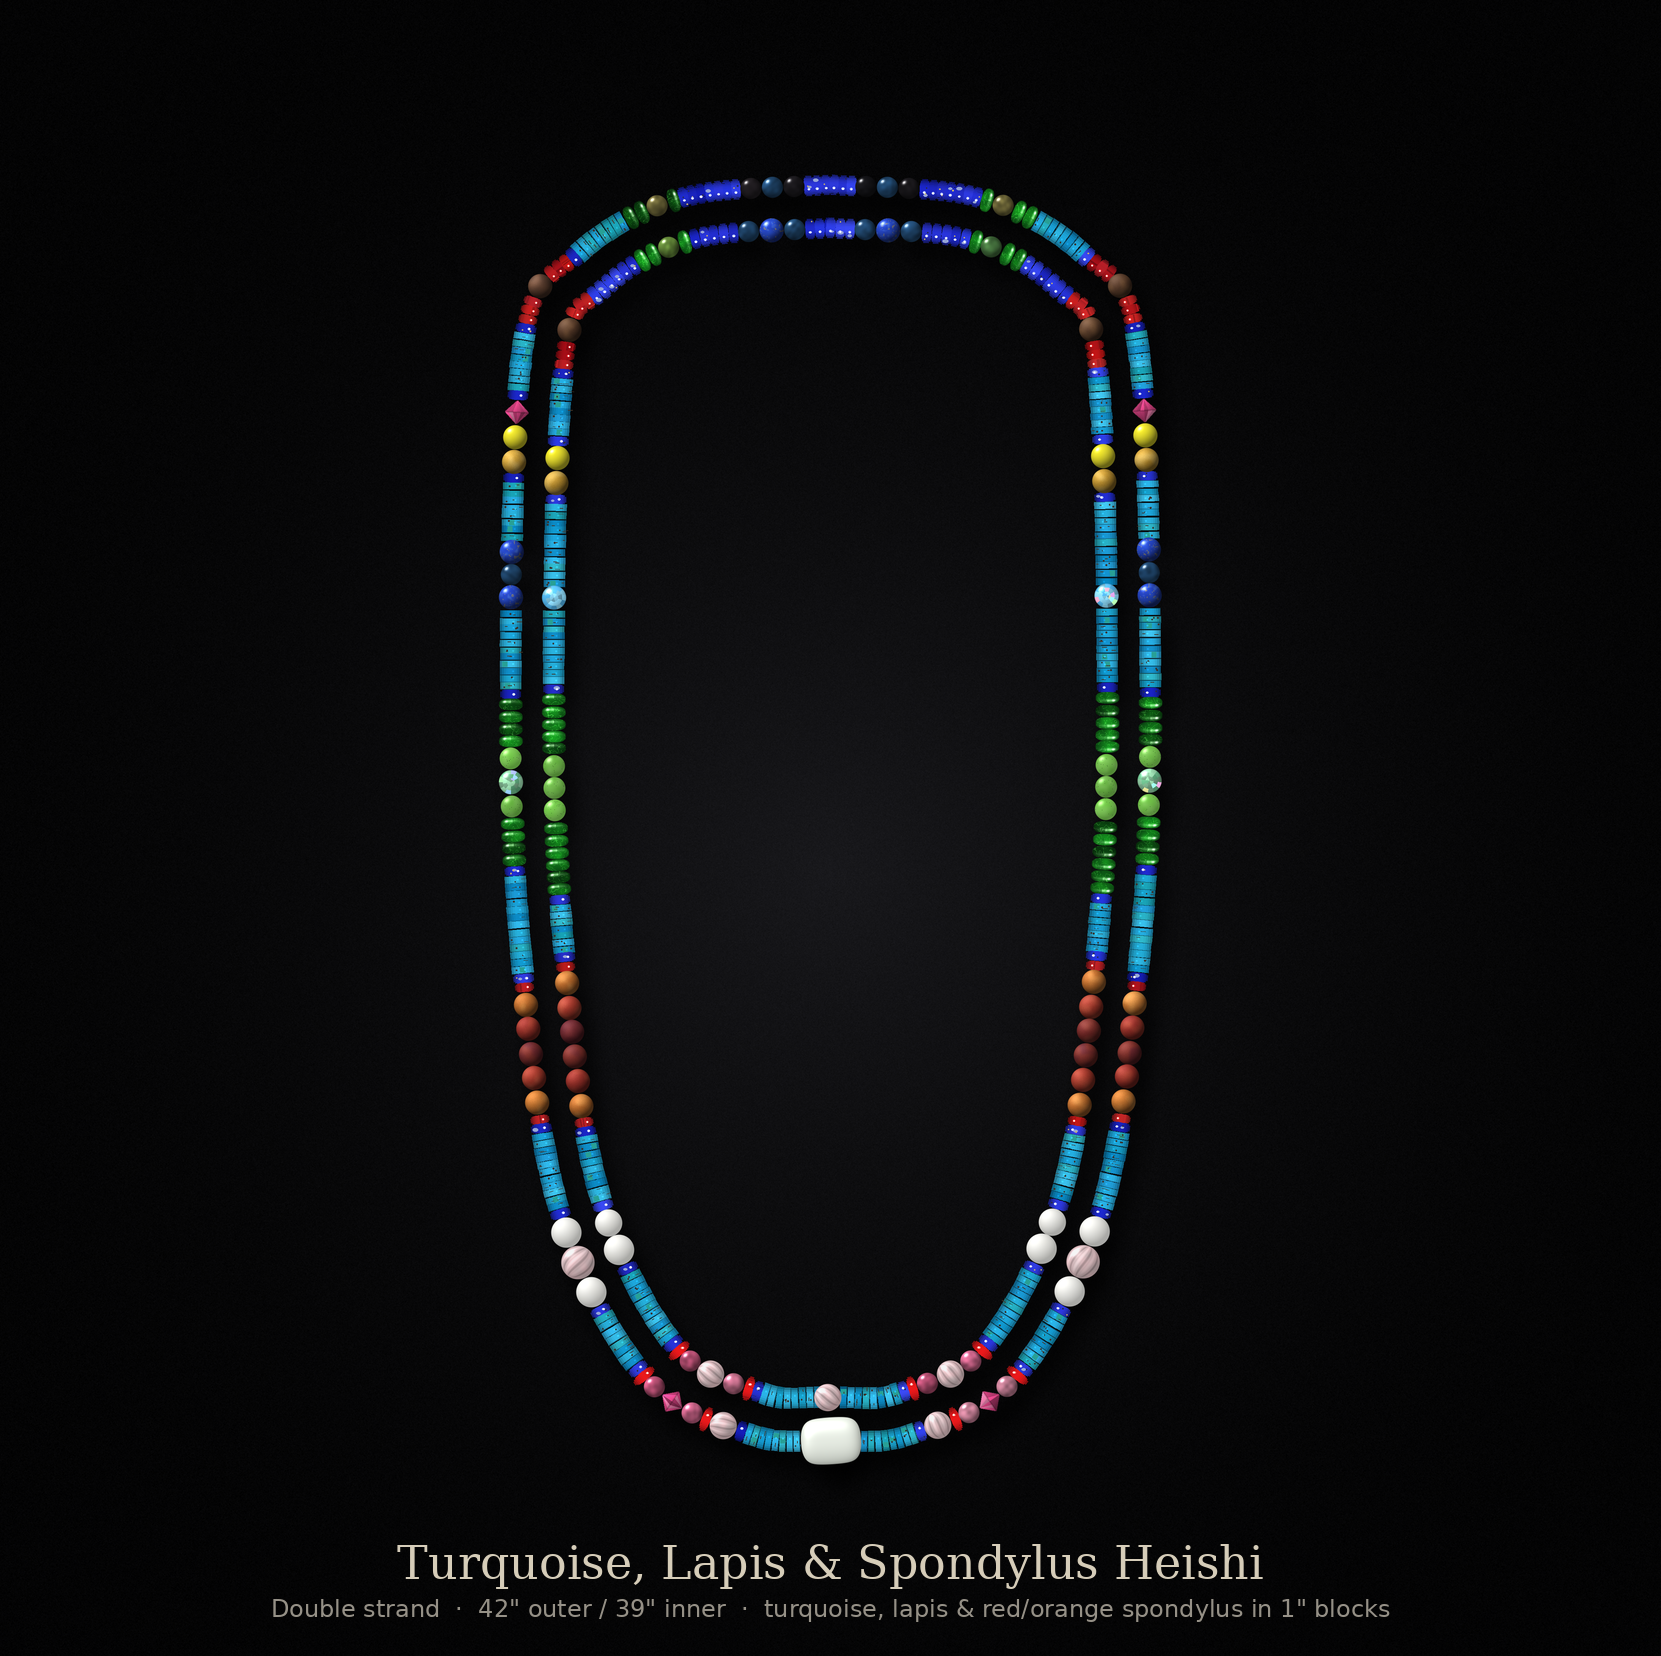
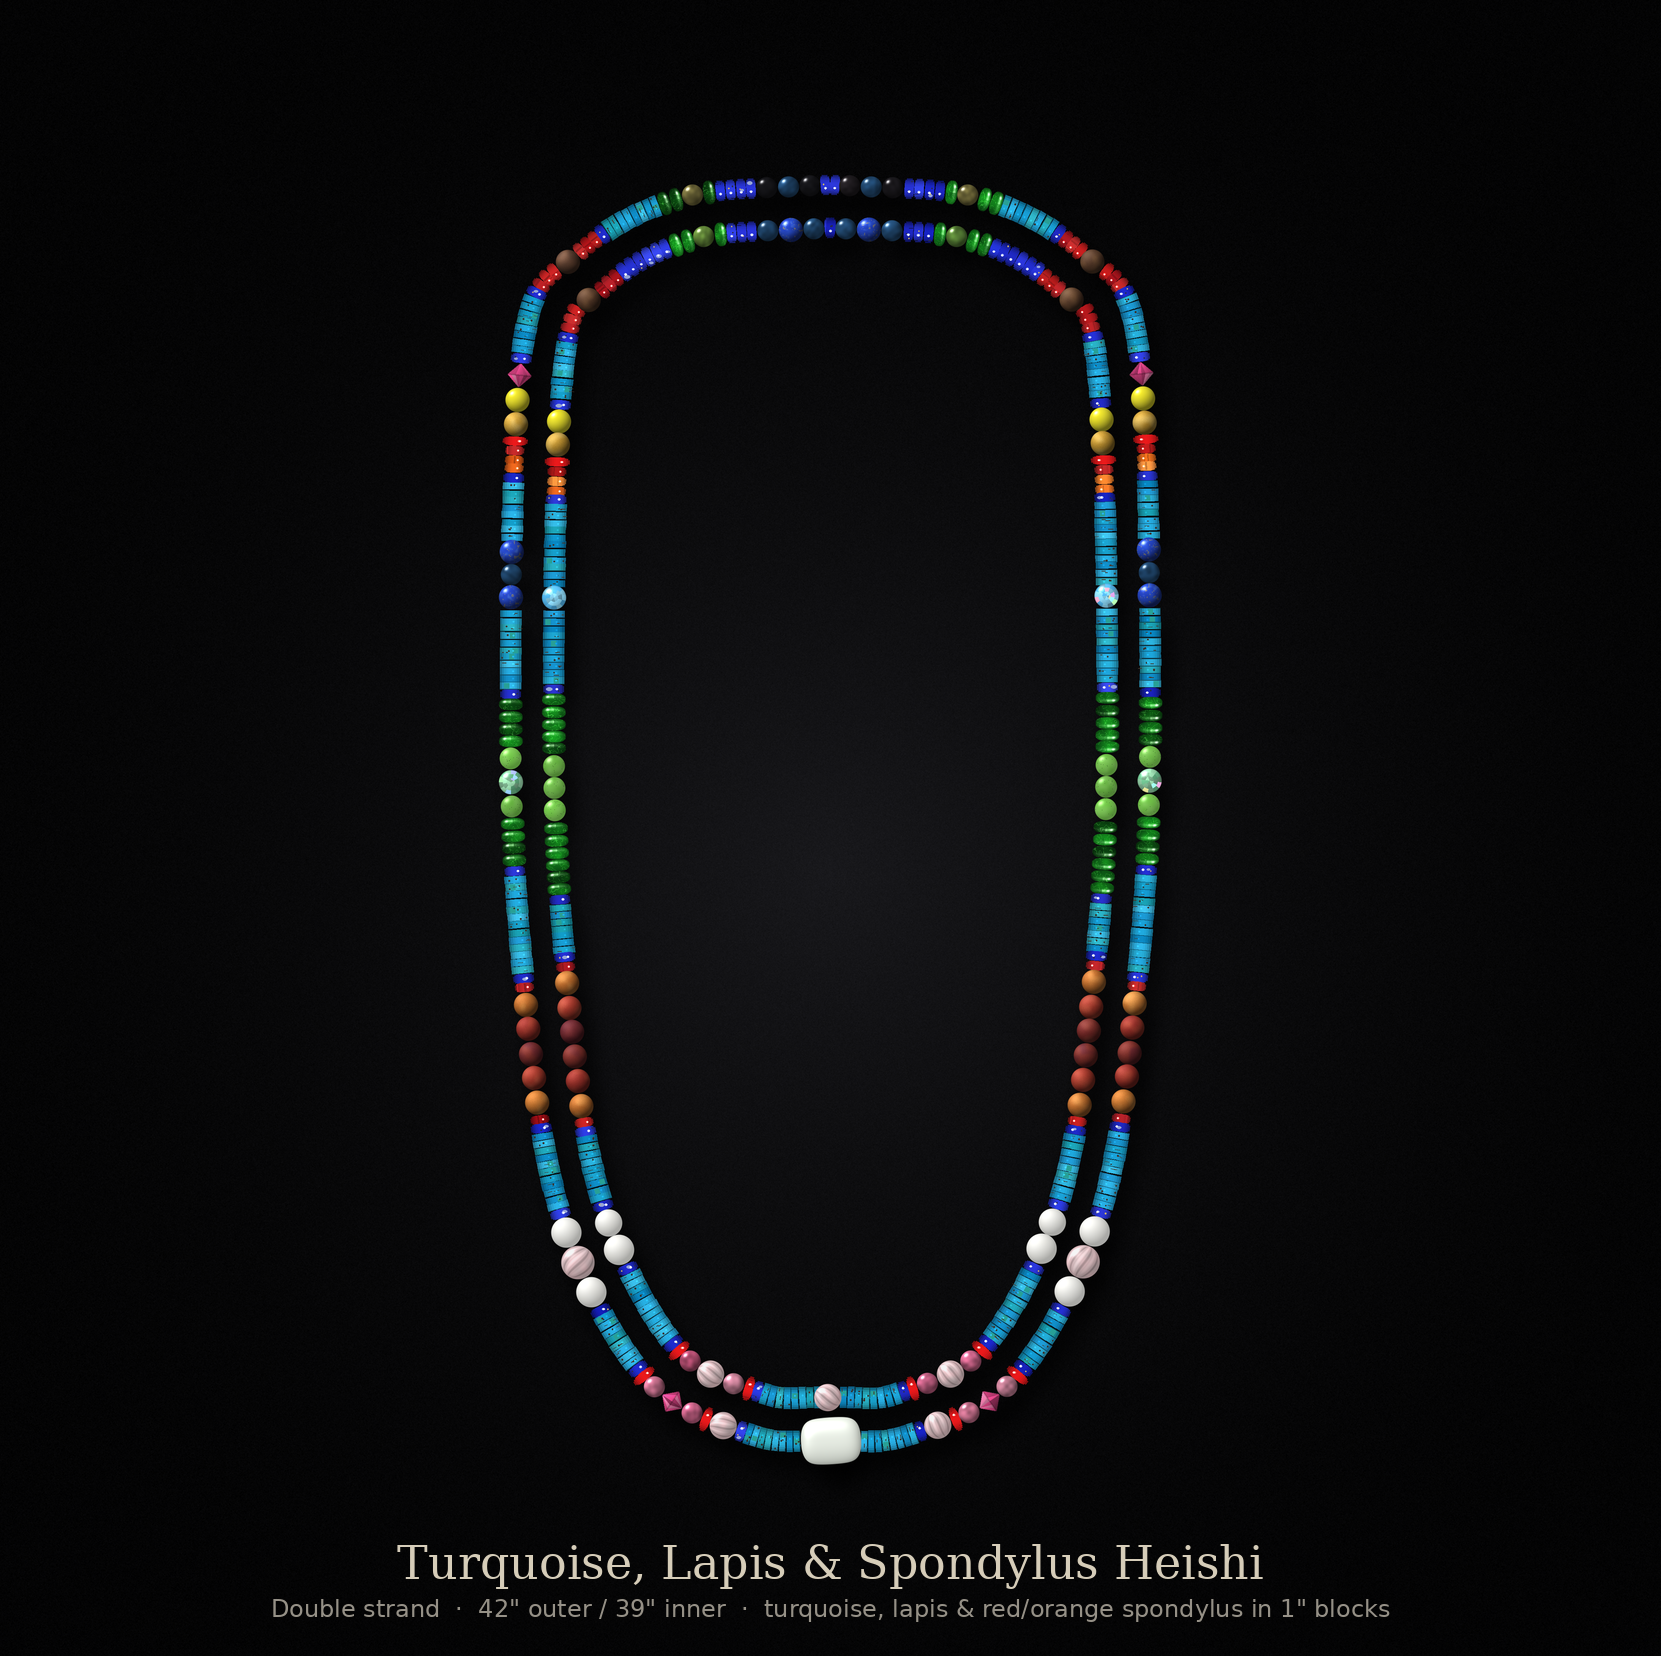
Version 5: red glass, red and two orange below the yellow bands
Claude-Session: https://claude.ai/code/session_014be1vF4Rdf8sv9Si75Gudv

diff --git a/necklace/render_necklace.py b/necklace/render_necklace.py
@@ -964,7 +964,7 @@ if V4:
         _o = list(BANDS[3][0]); _o[_o.index("yellow") + 1] = "mookyel"
         _o[_o.index("tan")] = "rbic"                        # top tan tourmaline -> rose glass bicone
         _i = list(BANDS[3][1]); _i[len(_i) - 1 - _i[::-1].index("yellow")] = "mookyel"   # lower yellow glass, inner
-        BANDS[3] = (_o, _i)
+        BANDS[3] = (_o + ["redglass", "red", "orange", "orange"], _i + ["redglass", "red", "orange", "orange"])
         # red-orange band: orange spondylus groups -> mookaite, going out from the maroon centre: red then orange;
         # one red spondylus disc dropped at each end to make room
         def _mookband(seq):
@@ -1070,13 +1070,16 @@ if V4:
             last = Hs - (st0[-1] + w0[-1])
             widths = [sum(SZ[k] for k in stn) for stn in STN]
             first = Hs - sum(widths) - sum(mids) - last
-            print(f"v5 strand {st}: top gap {first:.1f} mm")
+            if first < 3.0:                     # take the shortfall from the lapis run behind the neck, not turquoise
+                mids[0] -= 3.0 - first
+                first = 3.0
+            print(f"v5 strand {st}: top gap {first:.1f} mm, behind-neck lapis run {mids[0]:.1f} mm")
             gaps = [first] + mids + [last]
         g = 0.0
         lap = LAP_BUDGET[st]
         for gi, gl in enumerate(gaps):
             nl = max(1, int(round(gl / 3.0)))
-            if lap >= nl:
+            if (lap >= nl and not V5) or (V5 and gi <= (1 if st == 0 else 2)):   # v5: same lapis runs as before
                 for q in range(nl):
                     put(g + gl / nl * (q + 0.5), "lapisH")
                 lap -= nl
